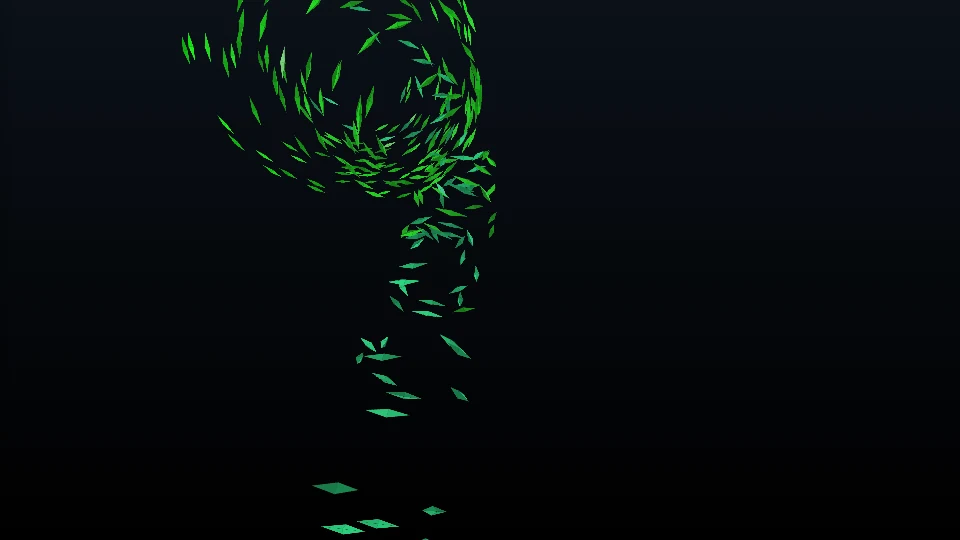
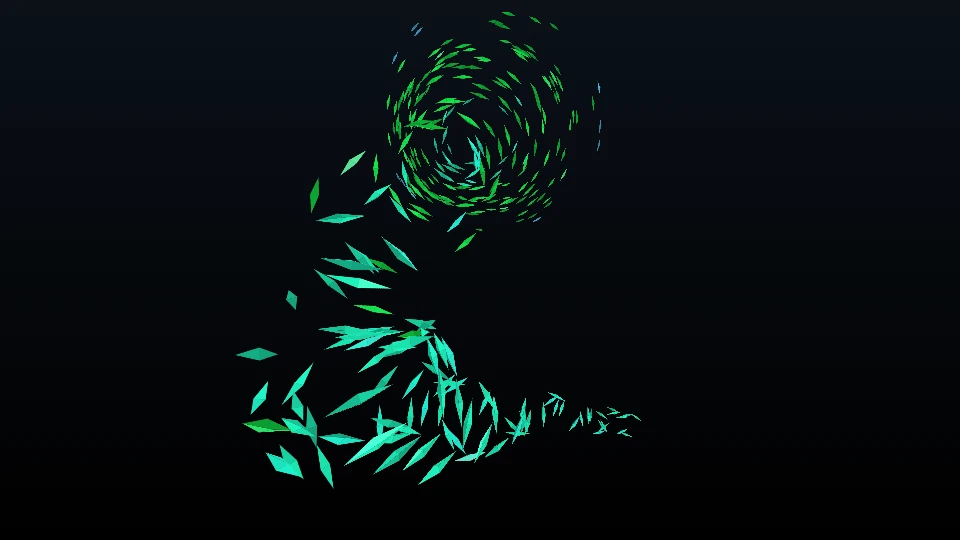
fix: brighten Cyclone and harden gallery shell (#134)

diff --git a/site/site.css b/site/site.css
@@ -66,7 +66,6 @@ html.example-background-solitaire {
   color: var(--examples-shell-text);
   background: var(--examples-shell-background);
   border-right: 1px solid var(--examples-shell-border);
-  box-shadow: 4px 0 18px rgb(0 0 0 / 20%);
   font-family: ui-monospace, SFMono-Regular, Menlo, Monaco, Consolas, monospace;
   color-scheme: dark;
 }
@@ -357,7 +356,6 @@ html body:not(.ready):not(.error)::after {
     pointer-events: none;
     background: transparent;
     border-right: 0;
-    box-shadow: none;
   }
 
   .examples-header,
@@ -365,10 +363,6 @@ html body:not(.ready):not(.error)::after {
   #asset-list {
     pointer-events: auto;
     background: var(--examples-shell-background);
-  }
-
-  .examples-header {
-    box-shadow: 0 4px 18px rgb(0 0 0 / 20%);
   }
 
   .examples-wordmark {
@@ -389,7 +383,6 @@ html body:not(.ready):not(.error)::after {
     overflow-x: auto;
     overflow-y: hidden;
     border-top: 1px solid var(--examples-shell-border);
-    box-shadow: 0 -4px 18px rgb(0 0 0 / 20%);
   }
 
   .project-thumbnail {

diff --git a/src/adapters/cyclone/README.md b/src/adapters/cyclone/README.md
@@ -12,10 +12,12 @@ so decompression stays outside long animation frames. The source fixed-function
 light is sampled at each particle's original smooth vertex normals in the first
 published frame, then the three lit vertex colors of every triangle are averaged
 into one prepared opaque CSS face color, then receives a prepared 1.4 sRGB
-exposure. The exposure clips channels at the gamut ceiling without mixing
-toward neutral, so green and blue palettes keep their saturation and hue ratios.
-A preparation guard rejects banks whose final lit palette becomes predominantly
-dark. Exact cross-palette color tuples
+exposure. The twelve variants are then normalized once in OKLab using visible
+frame-occurrence weights for each of their three hue groups. Chroma is reduced
+only where the adjusted color would
+leave the sRGB gamut, so every family keeps its hue and face-lighting contrast
+without blue and violet sessions becoming perceptually dark. A preparation guard
+checks OKLab lightness rather than the maximum RGB channel. Exact cross-palette color tuples
 are deduplicated into a compact prepared slot table. Initial leaf colors are
 bound once. Later color writes are limited to the six leaves of a particle when
 the source restarts it with a new color. The mounted graph is camera, scene,
@@ -35,7 +37,7 @@ restart remain unchanged. Twelve prepared variants use explicit audited
 three-hue sets; none combines opposing families such as red and blue. The
 palette definition is shared with Flocks. The browser selects one complete prepared color table and performs no color calculation. The same source RNG
 draws preserve RNG cadence, trajectory geometry, restart timing, and coherent
-color bands. The session palette and prepared exposure are
+color bands. The session palette, prepared exposure, and perceptual-lightness normalization are
 intentional presentation changes; they are not exact source colors.
 Startup is prebaked to ten audited 48-frame source windows. A 12-load
 session-shuffled cycle includes every prepared palette exactly once without
